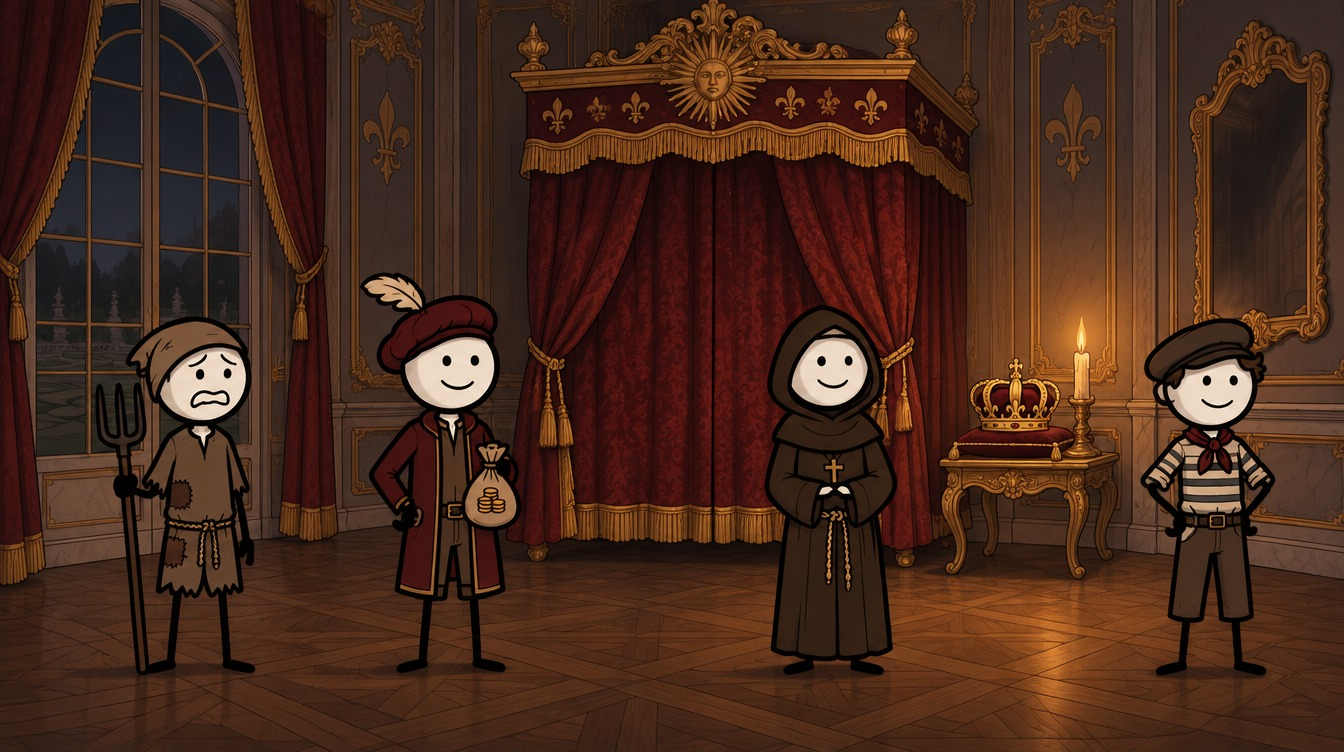
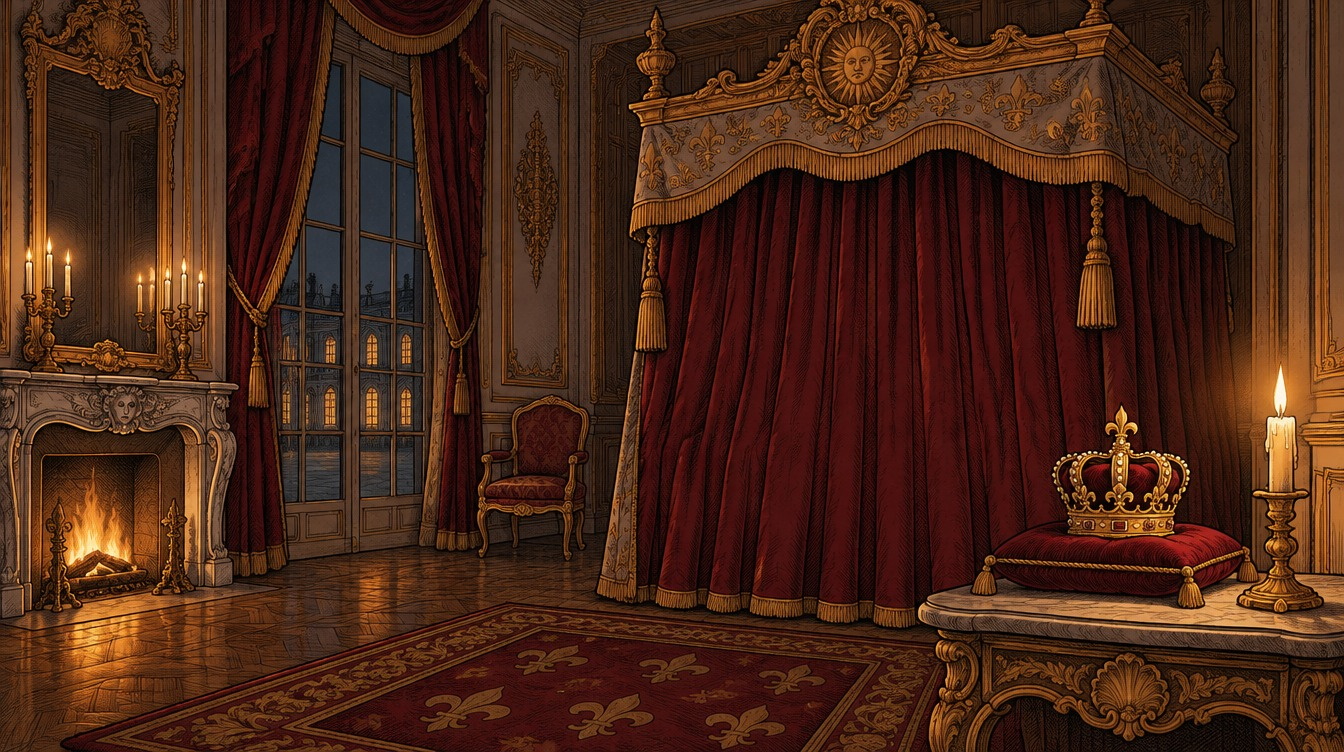
Smallpox ep3: c19a/c19b without copied reference cast
Claude-Session: https://claude.ai/code/session_01TNc2K4iQhF6FRvCx2VQdik

diff --git a/tools/plague/ep03_spec.py b/tools/plague/ep03_spec.py
@@ -97,8 +97,8 @@ K('L12', "Even the Vikings had me. I was fashionable early.",
 
 # ---- crowns
 N('L13', "Over the centuries, he spread across Asia, Africa and Europe, and he didn't care about rank. Queen Elizabeth the First of England caught him in 1562 and survived. Louis the Fifteenth of France died of him in 1774.",
-  ch('c19a', W(), "A Tudor palace chamber: a stickman queen with a red Elizabethan wig, a big white ruff and a pale white face sits upright on a throne, candles around her.", text=cap('ELIZABETH I · 1562')),
-  ch('c19b', W(), "A dim royal bedchamber at Versailles: a grand canopy bed with heavy curtains drawn, a gilded crown on a cushion on a side table, a single candle.", text=cap('LOUIS XV · 1774')))
+  ch('c19a', W(), "A Tudor palace chamber with tapestries and candles. Only ONE figure in the whole picture: a stickman queen with a red Elizabethan wig, a big white ruff and a pale white round face sits upright on a throne. Nobody else.", text=cap('ELIZABETH I · 1562')),
+  sh('c19b', W(), "A dim, empty royal bedchamber at Versailles: a grand canopy bed with heavy curtains drawn, a gilded crown on a cushion on a side table, a single candle.", text=cap('LOUIS XV · 1774')))
 N('L14', "So did Queen Mary the Second of England, the young tsar Peter the Second of Russia, and the Holy Roman Emperor Joseph the First.",
   sh('c20a', WL(), "Three empty gilded thrones in a row in a dark palace hall, each with a crown resting on its seat, candles, long shadows."))
 K('L15', "I collect crowns. Every collector has a favourite piece.",
